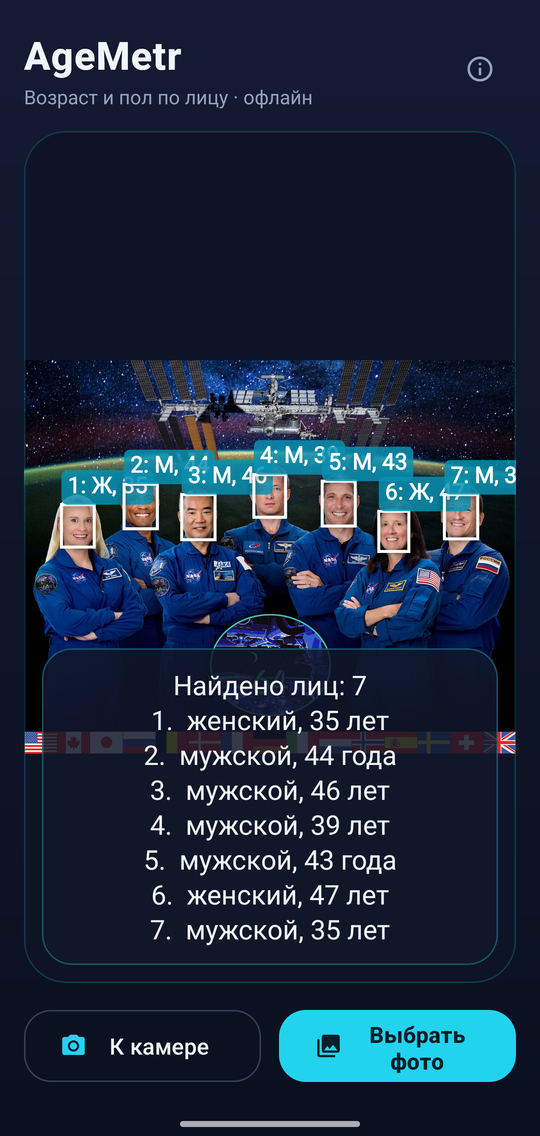
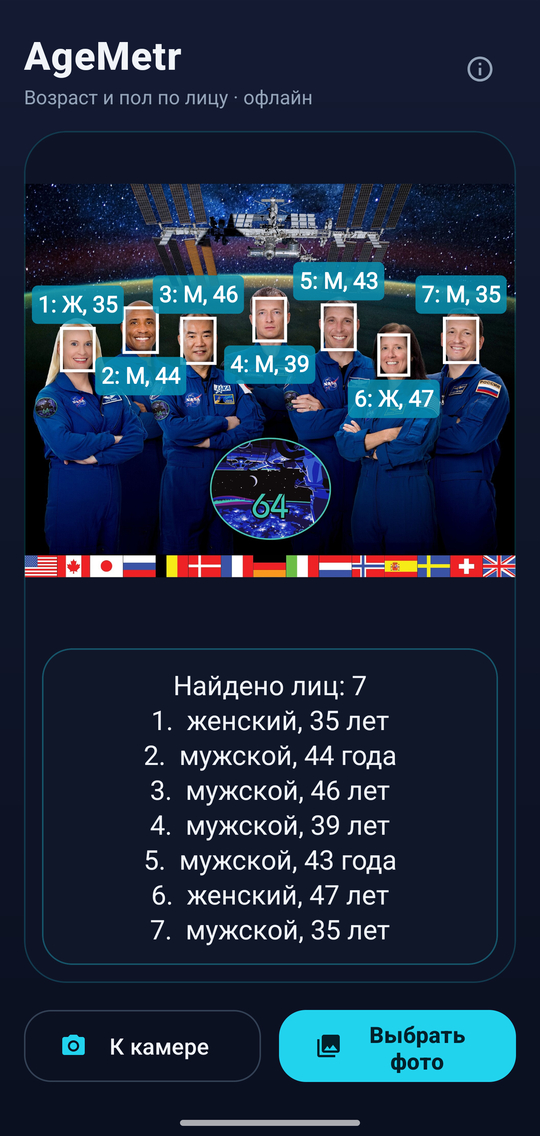
Photo mode: labels never overlap, result card no longer hides faces
Face labels are centered on each face and placed above or below it so they
do not collide; if full labels cannot fit, only face numbers are shown.
The photo and face boxes are drawn above the result card instead of under it.

diff --git a/app/src/main/java/com/example/agemetr/FaceSelectionOverlayView.kt b/app/src/main/java/com/example/agemetr/FaceSelectionOverlayView.kt
@@ -5,11 +5,17 @@ import android.graphics.Canvas
 import android.graphics.Color
 import android.graphics.Paint
 import android.graphics.Rect
+import android.graphics.RectF
 import android.util.AttributeSet
 import android.view.View
 import kotlin.math.min
 
-/** Draws every detected photo face and marks the face used for the displayed result. */
+/**
+ * Рисует рамки найденных лиц и подписи к ним. Подписи не налезают друг на друга:
+ * если полные подписи («2: М, 44») не помещаются, остаются только номера лиц,
+ * а подробности показывает карточка результата.
+ * Учитывает padding так же, как ImageView со scaleType FIT_CENTER.
+ */
 class FaceSelectionOverlayView @JvmOverloads constructor(
     context: Context,
     attrs: AttributeSet? = null,
@@ -21,22 +27,27 @@ class FaceSelectionOverlayView @JvmOverloads constructor(
     private var sourceWidth = 0
     private var sourceHeight = 0
 
+    private val density = resources.displayMetrics.density
+    private val pad = 4f * density
+    private val gap = 3f * density
+
     private val otherFacePaint = Paint(Paint.ANTI_ALIAS_FLAG).apply {
         color = Color.WHITE
         style = Paint.Style.STROKE
-        strokeWidth = 2f * resources.displayMetrics.density
-        setShadowLayer(4f * resources.displayMetrics.density, 0f, 1f, 0x99000000.toInt())
+        strokeWidth = 2f * density
+        setShadowLayer(4f * density, 0f, 1f, 0x99000000.toInt())
     }
     private val chosenFacePaint = Paint(Paint.ANTI_ALIAS_FLAG).apply {
         color = Color.rgb(34, 211, 238)
         style = Paint.Style.STROKE
-        strokeWidth = 4f * resources.displayMetrics.density
-        setShadowLayer(5f * resources.displayMetrics.density, 0f, 1f, 0xCC000000.toInt())
+        strokeWidth = 4f * density
+        setShadowLayer(5f * density, 0f, 1f, 0xCC000000.toInt())
     }
     private val labelTextPaint = Paint(Paint.ANTI_ALIAS_FLAG).apply {
         color = Color.WHITE
         textSize = 15f * resources.displayMetrics.scaledDensity
         isFakeBoldText = true
+        textAlign = Paint.Align.CENTER
     }
     private val labelBackgroundPaint = Paint(Paint.ANTI_ALIAS_FLAG).apply {
         color = Color.argb(215, 8, 145, 178)
@@ -72,31 +83,62 @@ class FaceSelectionOverlayView @JvmOverloads constructor(
         super.onDraw(canvas)
         if (sourceWidth <= 0 || sourceHeight <= 0) return
 
-        // Match ImageView.ScaleType.FIT_CENTER, including the blank margins.
-        val scale = min(width.toFloat() / sourceWidth, height.toFloat() / sourceHeight)
-        val offsetX = (width - sourceWidth * scale) / 2f
-        val offsetY = (height - sourceHeight * scale) / 2f
+        // Как у ImageView.ScaleType.FIT_CENTER внутри padding, включая пустые поля.
+        val areaWidth = (width - paddingLeft - paddingRight).toFloat()
+        val areaHeight = (height - paddingTop - paddingBottom).toFloat()
+        if (areaWidth <= 0f || areaHeight <= 0f) return
+        val scale = min(areaWidth / sourceWidth, areaHeight / sourceHeight)
+        val offsetX = paddingLeft + (areaWidth - sourceWidth * scale) / 2f
+        val offsetY = paddingTop + (areaHeight - sourceHeight * scale) / 2f
 
-        boxes.forEachIndexed { index, box ->
-            val left = offsetX + box.left * scale
-            val top = offsetY + box.top * scale
-            val right = offsetX + box.right * scale
-            val bottom = offsetY + box.bottom * scale
-            canvas.drawRect(left, top, right, bottom, if (index == chosenIndex) chosenFacePaint else otherFacePaint)
+        val screenBoxes = boxes.map { box ->
+            RectF(
+                offsetX + box.left * scale,
+                offsetY + box.top * scale,
+                offsetX + box.right * scale,
+                offsetY + box.bottom * scale,
+            )
+        }
+        screenBoxes.forEachIndexed { index, r ->
+            canvas.drawRect(r, if (index == chosenIndex) chosenFacePaint else otherFacePaint)
+        }
 
-            val label = labels.getOrNull(index).orEmpty()
-            if (label.isNotEmpty()) {
-                val pad = 4f * resources.displayMetrics.density
-                val textWidth = labelTextPaint.measureText(label)
-                val textHeight = labelTextPaint.textSize
-                // Подпись над рамкой; если места сверху нет — внутри рамки.
-                val labelBottom = if (top - textHeight - 2 * pad >= 0f) top else top + textHeight + 2 * pad
-                canvas.drawRoundRect(
-                    left, labelBottom - textHeight - 2 * pad, left + textWidth + 2 * pad, labelBottom,
-                    pad, pad, labelBackgroundPaint,
-                )
-                canvas.drawText(label, left + pad, labelBottom - pad - labelTextPaint.descent(), labelTextPaint)
+        if (labels.isEmpty()) return
+        // Сначала пробуем полные подписи, при наложении — только номера лиц.
+        val placed = layoutLabels(screenBoxes, labels)
+            ?: layoutLabels(screenBoxes, labels.indices.map { i -> if (labels[i].isEmpty()) "" else "${i + 1}" })
+            ?: layoutLabels(screenBoxes, labels.indices.map { i -> if (labels[i].isEmpty()) "" else "${i + 1}" }, force = true)
+            ?: return
+        placed.forEach { (text, rect) ->
+            canvas.drawRoundRect(rect, pad, pad, labelBackgroundPaint)
+            val baseline = rect.centerY() - (labelTextPaint.ascent() + labelTextPaint.descent()) / 2f
+            canvas.drawText(text, rect.centerX(), baseline, labelTextPaint)
+        }
+    }
+
+    /**
+     * Ставит подпись по центру над рамкой, при нехватке места — под рамкой.
+     * Возвращает null, если какие-то подписи налезают друг на друга (кроме [force]).
+     */
+    private fun layoutLabels(screenBoxes: List<RectF>, texts: List<String>, force: Boolean = false): List<Pair<String, RectF>>? {
+        val textHeight = labelTextPaint.descent() - labelTextPaint.ascent()
+        val labelHeight = textHeight + 2 * pad
+        val result = mutableListOf<Pair<String, RectF>>()
+        texts.forEachIndexed { index, text ->
+            if (text.isEmpty()) return@forEachIndexed
+            val box = screenBoxes.getOrNull(index) ?: return@forEachIndexed
+            val labelWidth = labelTextPaint.measureText(text) + 2 * pad
+            val left = (box.centerX() - labelWidth / 2f).coerceIn(0f, (width - labelWidth).coerceAtLeast(0f))
+            val above = RectF(left, box.top - gap - labelHeight, left + labelWidth, box.top - gap)
+            val below = RectF(left, box.bottom + gap, left + labelWidth, box.bottom + gap + labelHeight)
+            val candidates = listOf(above, below).filter { it.top >= 0f && it.bottom <= height }
+            val free = candidates.firstOrNull { c -> result.none { RectF.intersects(it.second, c) } }
+            when {
+                free != null -> result += text to free
+                force -> result += text to (candidates.firstOrNull() ?: above)
+                else -> return null
             }
         }
+        return result
     }
 }

diff --git a/app/src/main/java/com/example/agemetr/MainActivity.kt b/app/src/main/java/com/example/agemetr/MainActivity.kt
@@ -12,6 +12,7 @@ import android.os.SystemClock
 import android.text.method.LinkMovementMethod
 import android.util.Size
 import android.view.View
+import android.view.ViewGroup
 import android.widget.Button
 import android.widget.ImageView
 import android.widget.ProgressBar
@@ -637,11 +638,33 @@ class MainActivity : AppCompatActivity() {
         progressBar.visibility = View.INVISIBLE
         cameraButton.isEnabled = true
         photoButton.isEnabled = true
+        resultCard.post { fitPhotoAboveResult() }
     }
 
     private fun clearResult() {
         resultText.text = ""
         resultCard.visibility = View.GONE
+        fitPhotoAboveResult()
+    }
+
+    /**
+     * В режиме фото уменьшает область снимка так, чтобы карточка результата
+     * не закрывала лица: фото и рамки рисуются только выше карточки.
+     */
+    private fun fitPhotoAboveResult() {
+        val photoMode = !liveMode && photoPreview.scaleType == ImageView.ScaleType.FIT_CENTER
+        val bottom = if (photoMode && resultCard.visibility == View.VISIBLE) {
+            val margins = (resultCard.layoutParams as? ViewGroup.MarginLayoutParams)
+                ?.let { it.topMargin + it.bottomMargin } ?: 0
+            resultCard.height + margins
+        } else {
+            0
+        }
+        if (photoPreview.paddingBottom != bottom) {
+            photoPreview.setPadding(0, 0, 0, bottom)
+            faceSelectionOverlay.setPadding(0, 0, 0, bottom)
+            faceSelectionOverlay.invalidate()
+        }
     }
 
     override fun onDestroy() {
